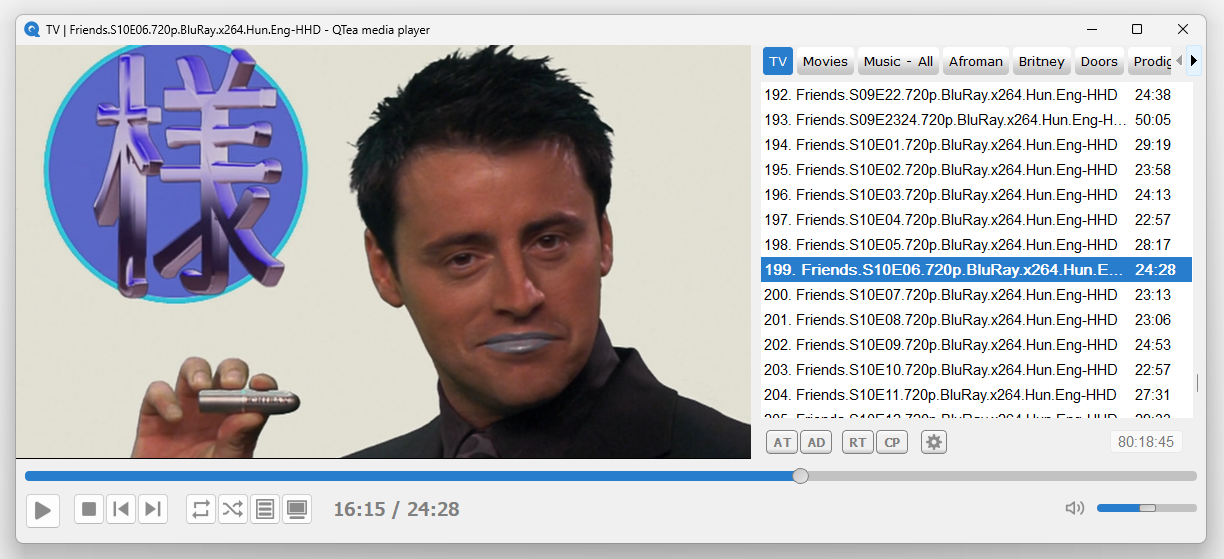
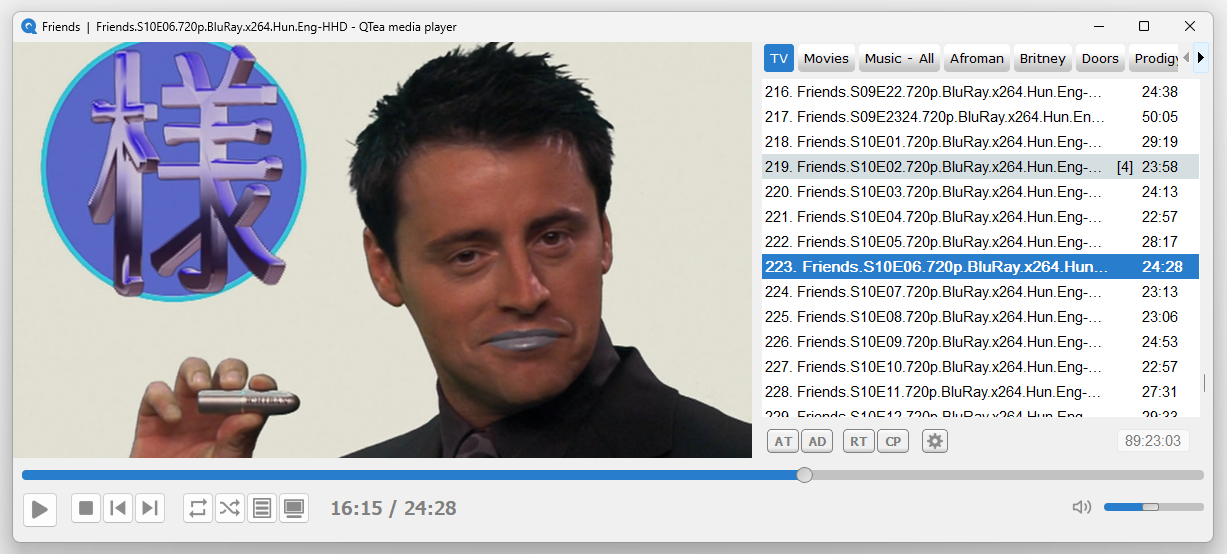
relocate / update queued track fix, readme update

diff --git a/src/playlists.py b/src/playlists.py
@@ -33,7 +33,7 @@ class MyPlaylists(QTabWidget):
     def __init__(self, play_track, window, duration_sum_widg=None):
         super().__init__()
 
-        ''' playlists_created_at_first_run
+        ''' playlists_created_at_first_run VAR
             USED TO AVOID THE 
             __.currentChanged.connect(self.active_playlist)
             SIGNAL AT THE PLAYLISTS CREATION
@@ -43,14 +43,17 @@ class MyPlaylists(QTabWidget):
         self.duration_sum_widg = duration_sum_widg
         self.playlists_created_at_first_run = False
         self.setFont(QFont('Verdana', 10, 500))
-        # self.ntt = MyNameListWidget()
         self.playlists_creation()
         self.setCurrentIndex(cv.playing_playlist)
         self.currentChanged.connect(self.active_playlist_changed)
         self.playlists_created_at_first_run = True
-
         cv.active_playlist = self.currentIndex()
         update_active_playlist_vars_and_widgets()
+        
+        # IF ADD TO THE QUEUE WITHOUT ROW SELECTION AT THE STARTUP
+        # GOING TO SELECT THE LAST PLAYED ROW
+        cv.current_track_index = cv.active_pl_last_track_index
+        
         self.duration_sum_widg.setText(generate_duration_to_display(cv.active_pl_sum_duration))
         self.add_dummy_playlist()
         self.hide_playlists_with_no_title()
@@ -93,7 +96,6 @@ class MyPlaylists(QTabWidget):
     def hide_playlists_with_no_title(self):
         for index in cv.paylists_without_title_to_hide_index_list:
             self.setTabVisible(index, 0)
-
 
     def active_playlist_changed(self):
         if self.playlists_created_at_first_run:
@@ -325,13 +327,29 @@ class MyPlaylists(QTabWidget):
 
 
     def drag_and_drop_list_item_action(self):
-  
+
         prev_row_id = cv.active_pl_duration.currentRow()
         new_row_id = cv.active_pl_name.currentRow()
 
         new_row_id_db = new_row_id + 1
         prev_row_id_db = prev_row_id + 1
+
+        current_queue_pl_item = cv.active_pl_queue.currentItem()
+        current_duration_pl_item = cv.active_pl_duration.currentItem()
         
+        
+        ''' MOVE / UPDATE QUEUE WITH THE TITLE '''
+        cv.active_pl_queue.takeItem(prev_row_id)
+        cv.active_pl_queue.insertItem(new_row_id, current_queue_pl_item)
+        cv.active_pl_queue.setCurrentRow(new_row_id)
+        self.update_queued_tracks_index(prev_row_id, new_row_id)
+    
+        ''' MOVE DURATION WITH THE TITLE '''
+        cv.active_pl_duration.takeItem(prev_row_id)
+        cv.active_pl_duration.insertItem(new_row_id, current_duration_pl_item)
+        cv.active_pl_duration.setCurrentRow(new_row_id)
+
+
         ''' WHEN MOVING TRACK CURRENTLY PLAYING '''
         def set_track_index_when_moving_currently_playing():
             if cv.playing_pl_last_track_index == prev_row_id:
@@ -341,12 +359,6 @@ class MyPlaylists(QTabWidget):
                 return True
             else:
                 return False
-
-        ''' MOVE DURATION WITH THE TITLE '''
-        current_duration_pl_item = cv.active_pl_duration.currentItem()
-        cv.active_pl_duration.takeItem(prev_row_id)
-        cv.active_pl_duration.insertItem(new_row_id, current_duration_pl_item)
-        cv.active_pl_duration.setCurrentRow(new_row_id)
 
         ''' 
             MOVE DOWN / MOVE UP    
@@ -372,8 +384,10 @@ class MyPlaylists(QTabWidget):
                 cv.active_pl_name.item(rack_row_db-1).setText(list_name)
             
 
-            if not set_track_index_when_moving_currently_playing() and cv.playing_pl_last_track_index in range(prev_row_id_db, new_row_id_db):
+            if not set_track_index_when_moving_currently_playing() and cv.playing_pl_last_track_index in range(prev_row_id, new_row_id + 1):
                 cv.playing_pl_last_track_index -= 1
+                cv.playing_track_index = cv.playing_pl_last_track_index
+                print(cv.playing_pl_last_track_index)
                 save_playing_last_track_index()
         
         # MOVING TRACK UP
@@ -391,6 +405,30 @@ class MyPlaylists(QTabWidget):
                 rack_row_db, list_name, duration = generate_track_list_detail(item)
                 cv.active_pl_name.item(rack_row_db-1).setText(list_name)
             
-            if not set_track_index_when_moving_currently_playing() and cv.playing_pl_last_track_index in range(new_row_id_db -1, prev_row_id_db - 1):
+            if not set_track_index_when_moving_currently_playing() and cv.playing_pl_last_track_index in range(new_row_id, prev_row_id + 1):
                 cv.playing_pl_last_track_index += 1
+                cv.playing_track_index = cv.playing_pl_last_track_index
                 save_playing_last_track_index()
+        
+
+
+
+    def update_queued_tracks_index(self, prev_row_id, new_row_id):
+        
+        if cv.active_db_table in cv.queue_playlists_list:
+            
+            for item in cv.queue_tracks_list:   # item = [playlist_3, 6]
+                
+                if cv.active_db_table == item[0]:
+                    
+                    # MOVING THE QUEUED TRACK
+                    if item[1] == prev_row_id:
+                        item[1] = new_row_id
+
+                    # MOVING A TRACK BELOW THE QUEUED TRACK
+                    elif item[1] in range(prev_row_id, new_row_id + 1 ):
+                        item[1] = item[1] - 1
+                    
+                    # MOVING A TRACK ABOVE THE QUEUED TRACK
+                    elif item[1] in range(new_row_id, prev_row_id + 1):
+                        item[1] = item[1] + 1

diff --git a/src/func_coll.py b/src/func_coll.py
@@ -44,7 +44,7 @@ def save_playing_last_track_index():
     settings[cv.playing_db_table]['last_track_index'] = cv.playing_pl_last_track_index
     save_json(settings, PATH_JSON_SETTINGS)
 
-# A DB record: row_id, duration, path
+# A DB record: row_id, duration, current_duration, path
 # row_id populating automatically
 # QListwidget list first index: 0 // SQLite DB first index: 1
 def add_record_db(duration, path):
@@ -225,7 +225,7 @@ def update_queued_track_style(current_track_index):
             list_widget.item(current_track_index), 
             inactive_track_font_style,
             'black',
-            '#C2C2C2'
+            '#D5DFE2'
             )
 
 
@@ -281,8 +281,3 @@ def remove_queued_tracks_after_playlist_clear():
             cv.queue_playlists_list.remove(item[0])        
         
         update_queued_tracks_order_number()
-
-
-            
-
-

diff --git a/src/func_play_coll.py b/src/func_play_coll.py
@@ -110,7 +110,7 @@ class PlaysFunc():
             cv.subtitle_tracks_amount = len(self.av_player.player.subtitleTracks())
             
             # WINDOW TITLE
-            self.window.setWindowTitle(f'{cv.playing_pl_title} | {Path(track_path).stem} - QTea media player')
+            self.window.setWindowTitle(f'{cv.playing_pl_title}  |  {Path(track_path).stem} - QTea media player')
 
             # SCROLL TO PLAYING TRACK IF IT WOULD BE
             # OUT OF THE VISIBLE WINDOW/LIST

diff --git a/src/buttons.py b/src/buttons.py
@@ -215,7 +215,9 @@ class MyButtons(QPushButton):
 
 
     ''' 
-    PLAY SECTION
+    #####################
+        PLAY SECTION    
+    #####################
     '''
     ''' BUTTON PLAY SECTION - PLAY / PAUSE '''
     def button_play_pause_clicked(self):

diff --git a/README.md b/README.md
@@ -1,9 +1,14 @@
-# QTea Media Player
-- The media player supports multiple* playlists at the same time. Inspired by `Winamp` and `VLC media player`.
-    - *30 by default, more can be generated
-    - Planned to add:
-        - Playlist picker window (search, jump to)
-        - Cross playlists queue management and a dedicated queue management window
+## Main features
+- Thirty playlists supported by default. More can be generated.
+- Playlists saved by default.
+- Cross playlists queue management.
+- Start from the latest point.
+- Start the last played media at startup.
+- Quick switch to alternative window mode / size.
+- Planned to add:
+    - Cross playlists search window
+    - Dedicated queue management window
+- QTea media player can be a viable option for highly organised contentgoers and house party DJs. Inspired by `Winamp` and `VLC media player`.
 
 <div align="left">
     <img src="docs/promo/screenshot_0.png">
@@ -23,44 +28,31 @@
 <br>
 
 ## Terminology
-- `Playing playlist` = playlist where the current track is in the playing or paused state / playlist where the last track was played
-- `Active playlist` = playlist which is currently selected / displayed
+- `Playing playlist` = playlist where the current track is in the playing or paused state / playlist where the last track was played.
+- `Active playlist` = playlist which is currently selected / displayed.
 
 ## Play buttons
-- To come 
+- To come.
 
 ## Playlist buttons (under playlists section)
-- `AT - Add Track`: add a single media/file to the playlist
-- `AD - Add Directory`: adding all the media files listed in the selected directory and subdirectories
-- `RT - Remove Track`: removes the current/selected track
-- `CP - Clear Playlist`: removes all the items from the current playlist
-- `Settings button`: opens the `Settings window`
+- `AT - Add Track`: add a single media/file to the playlist.
+- `AD - Add Directory`: adding all the media files listed in the selected directory and subdirectories.
+- `RT - Remove Track`: removes the current/selected track.
+- `CP - Clear Playlist`: removes all the items from the current playlist.
+- `Settings button`: opens the `Settings window`.
 
-## Settings - Settings window
-- To open the `Setting window` click on the `Cog/Settings icon` under the playlists section 
-- `Playlists tab:`Able to update the playlists titles - hide/show the playlists
-- `Genereal tab:` Adjust the shortcut keyboard values
-- `Hotkeys tab:` Adjust the player's jump values
+
+## Settings window
+- To open the `Setting window` click on the `Cog/Settings icon` under the playlists section. 
+- `Playlists tab:`Able to update the playlists titles - hide/show the playlists.
+- `Genereal tab:` Adjust the shortcut keyboard values.
+- `Hotkeys tab:` Adjust the player's jump values.
 - Saving the `Settings window` values by clicking on the `Save button`:
-    - Saves all the values from all the tabs if there is no invalid value
+    - Saves all the values from all the tabs if there is no invalid value.
     - Else: 
-        - Pop-up window displayed with the error message for all the invalid scenarios
-        - Error message includes the name of the field with the invalid value and the rule it should follow
-        - The pop-up window title: ERROR - TAB'S NAME (where the invalid value occurred)
-
-### Playlists
-- Twenty playlists are available by default. To create more, please see the `Steps to increase..` section below
-- In the `Settings window / Playlists` tab all the available playlists are listed
-    - To make a playlist visible:
-        - Add a title to the playlist
-        - If the playlist will be used the first time: empty playlist will be displayed after restart
-        - If playlist had tracks before it was hidden: the records will be loaded automatically after restart
-    - To hide a playlist:
-        - Remove the title of the playlist
-        - Playlists without a title will be hidden after restart
-        - At least one of the playlist remains visible
-            - Not able to remove all the playlist titles: clicking on the `Save button`: pop-up window will be displayed with the error message
-        - The hidden playlist's records/media information remains in the database
+        - Pop-up window displayed with the error message for all the invalid scenarios.
+        - Error message includes the name of the field with the invalid value and the rule it should follow.
+        - The pop-up window title: ERROR - TAB'S NAME (where the invalid value occurred).
 
 ### General
 - Coming
@@ -68,8 +60,25 @@
 ### Hotkeys
 - Acceptable hotkey formats: `M`, `m`, `Ctrl`, `ctRL`, `M+Ctrl`, `M+Ctrl+Space`
 - Acceptable hotkey list in `src / cons_and_vars.py / keys_list`
-- More to come
+- More to come.
 
+
+### Playlists
+- In the `Settings window / Playlists` tab all playlists are listed.
+    - To make a playlist visible:
+        - Add a title to the playlist.
+        - If the playlist is used the first time: empty playlist will be displayed after restart.
+        - If playlist had tracks before it was hidden: the records will be loaded automatically after restart.
+    - To hide a playlist:
+        - Remove the title of the playlist.
+        - At least one of the playlist remains visible:
+            - Not able to remove all the playlist titles: clicking on the `Save button`: pop-up window will be displayed with the error message.
+        - The hidden playlist's records/media information remains in the database.
+- Able to add/remove tracks to any of playlists: the playlist is saved automatically
+    - At startup:
+        - All playlists loading automatically.
+        - On all playlist the last played track is selected.
+        - The `Playing playlist` is active/displayed.
 <br>
 <div align="left">
     <img width="260" src="docs/promo/screenshot_sett_win_playlists.png">
@@ -77,24 +86,7 @@
     <img width="260" src="docs/promo/screenshot_sett_win_hotkeys.png">
 </div>
 
-
-## Behavior
-- `Volume`
-    - Changing the volume after the app is muted:
-        - It switches back to the un-muted state
-        - New volume = volume before muted -/+ the change
-    - The volume range is less wide compare to `VLC media player`
-- `Scree saver`
-    - When video window is displayed and video is playing the screen saver is turned off
-        - Otherwise the screen saver is on as usual
-- `Playlists`
-    - On any playlist able to add/remove tracks: the playlist is saved automatically
-    - At startup:
-        - All playlists loading automatically
-        - On all playlist the last played track is selected
-        - The `Playing playlist` is active/displayed    
-
-### Active and Playing playlists separation
+## Active and Playing playlists separation
 - All the below steps actioned on the `Playing playlist` even if the active and playing playists are different:
     - Paused --> Play
     - Play previous track
@@ -105,20 +97,32 @@
 - Window title = Playing playlist title | Track title
 
 ## Steps to increase the number of playlists beyond the default / to generate new playlist database
-1. Close the app if it is running
-2. Rename the current playlist database: `playlist.db`
-3. In the `src / cons_and_vars.py` file change the `playlist_amount = 20` value to as many playlists you wish, save the file
-4. In the `src / tables_and_playlists_guide.py` run the `create_tables()` function -> New `playlist.db` will be created
-5. After the next start of the app, all the playlists will be visible with increasing numeric titles
+1. Close the app if it is running.
+2. Rename the current playlist database: `playlist.db`.
+3. In the `src / cons_and_vars.py` file change the `playlist_amount = 20` value to as many playlists you wish, save the file.
+4. In the `src / tables_and_playlists_guide.py` run the `create_tables()` function -> New `playlist.db` will be created.
+5. After the next start of the app, all the playlists will be visible with increasing numeric titles.
 6. Optional: Change the title of the playlists via the `Settings window / Playlists`
-7. Optional: Remove the previous playlist database
+7. Optional: Remove the previous playlist database.
+
+
+## Other Behavior
+- `Volume`
+    - Changing the volume after the app is muted:
+        - It switches back to the un-muted state.
+        - New volume = volume before muted -/+ the change.
+    - The volume range is less wide compare to `VLC media player`.
+- `Screen saver`
+    - When video window is displayed and video is playing the screen saver is turned off.
+        - Otherwise the screen saver is on as usual.
+
 
 ## File types
 - Currently available: *.mp3 *.wav *.flac *.midi *.aac *.mp4 *.avi *.mkv *.mov *.flv *.wmv *.mpg
-- Not all the listed file types are tested
-- To update to the file types lists, please see the `src / cons_and_vars.py / FILE TYPES` section
-    - `FILE_TYPES_LIST` used to sort the files in the file dialog window - `AT - Add Track` button
-    - `MEDIA_FILES`'s listed file types used to select the correct files from the selected dictionary and subdirectories - `AD - Add Directory` button
+- Not all the listed file types are tested.
+- To update to the file types lists, please see the `src / cons_and_vars.py / FILE TYPES` section.
+    - `FILE_TYPES_LIST` used to sort the files in the file dialog window - `AT - Add Track` button.
+    - `MEDIA_FILES`'s listed file types used to select the correct files from the selected dictionary and subdirectories - `AD - Add Directory` button.
 
 ## Requirements
 ### Python 3 - used: 3.11.5
